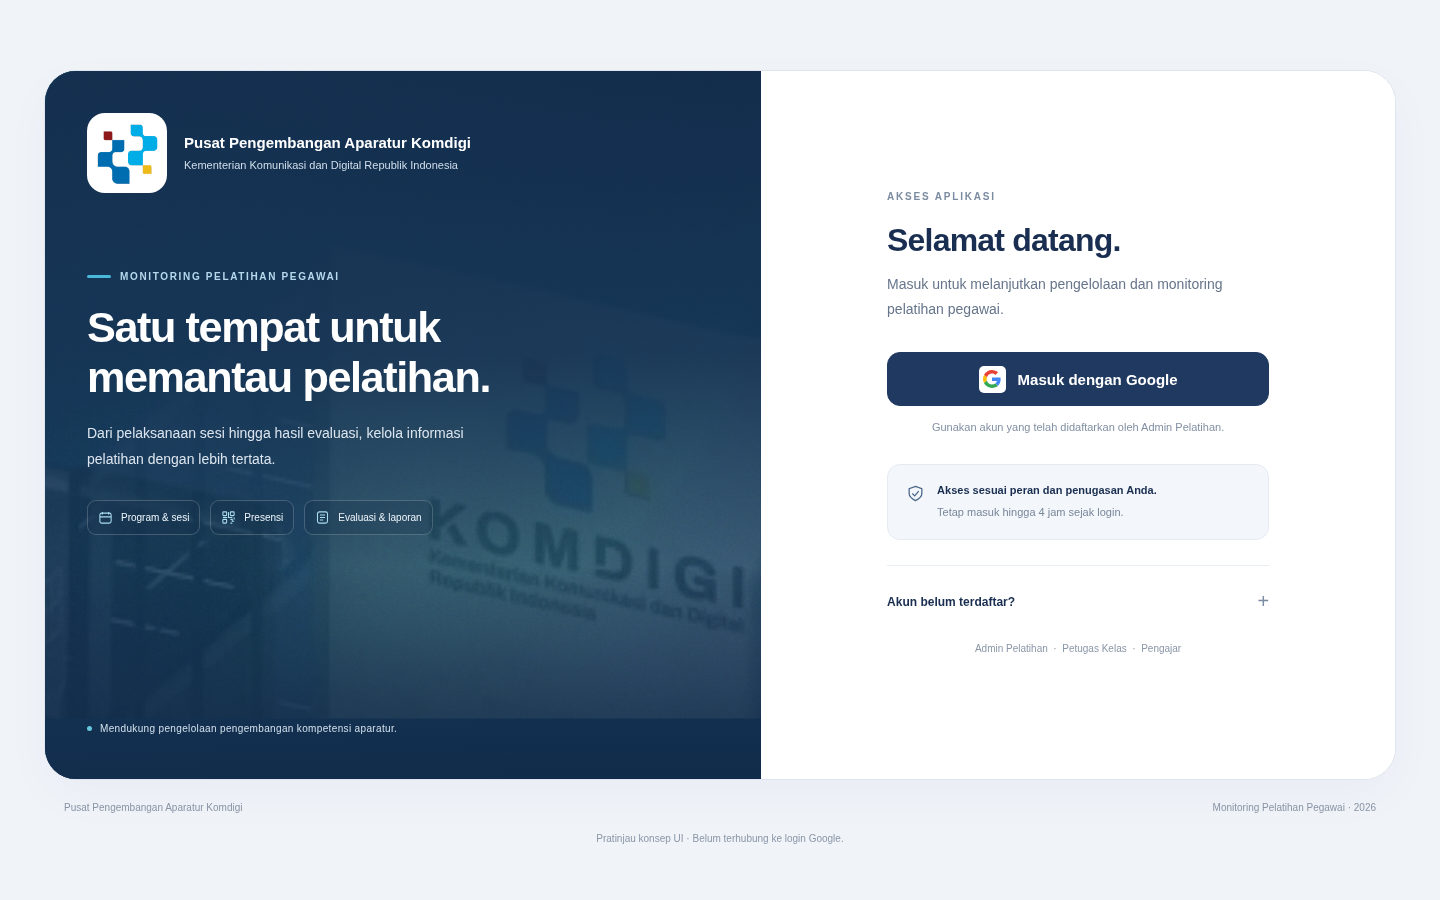
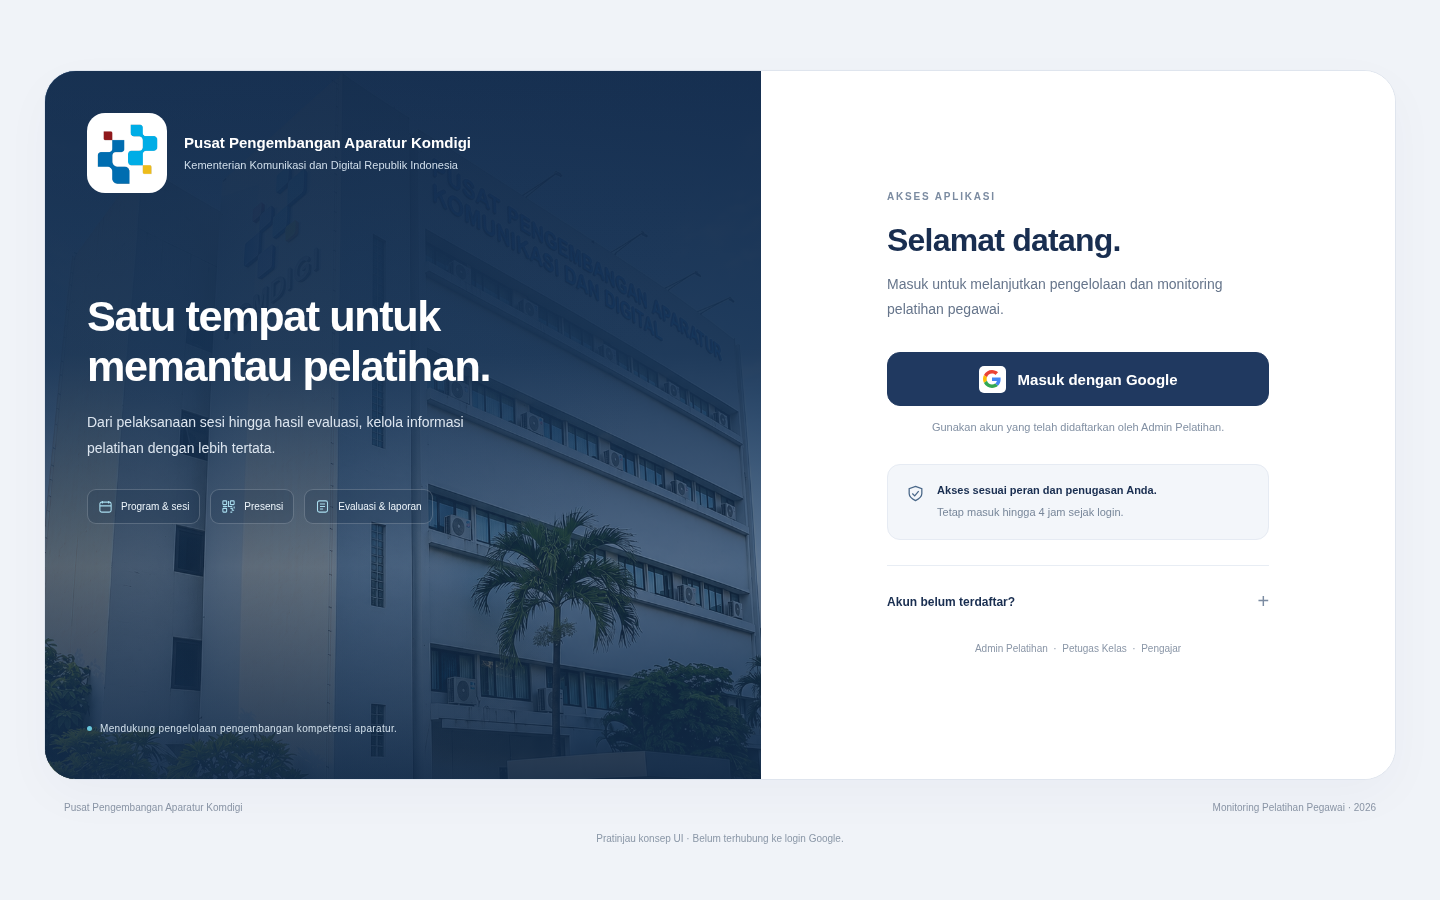
design: revise login building photo and remove left eyebrow

Changed region(s): [[0.0312, 0.3422, 0.5312, 0.84], [0.0625, 0.28, 0.2188, 0.3111]]

diff --git a/apps-script/absensi-dashboard/previews/konsep-login-awal/index.html b/apps-script/absensi-dashboard/previews/konsep-login-awal/index.html
@@ -9,11 +9,11 @@
 .scene{max-width:1480px;margin:0 auto;padding:38px 44px 22px;min-height:100svh;display:flex;flex-direction:column;justify-content:center}
 .shell{display:grid;grid-template-columns:1.13fr 1fr;gap:0;min-height:710px;border:1px solid #dfe5ee;border-radius:32px;overflow:hidden;background:#fff;box-shadow:0 16px 50px #192e5008}
 .hero{position:relative;isolation:isolate;overflow:hidden;background:#173354;color:white;display:flex;flex-direction:column;padding:42px 42px 32px;min-width:0}
-.hero-photo{position:absolute;z-index:-3;inset:0;width:100%;height:100%;object-fit:cover;object-position:50% 85%;opacity:.8}
+.hero-photo{position:absolute;z-index:-3;inset:0;width:100%;height:100%;object-fit:cover;object-position:50% 0%;opacity:.8}
 .hero::before{content:'';position:absolute;z-index:-2;inset:0;background:linear-gradient(180deg,#132b4bf5 0%,#173354ed 40%,#1733548a 70%,#112946e8 100%)}
 .hero::after{content:'';position:absolute;z-index:-1;inset:0;background:linear-gradient(110deg,#1733545c,transparent 75%)}
 .brand{display:flex;align-items:center;gap:17px;max-width:460px}.brand-logo{width:80px;height:80px;object-fit:contain;background:#fff;border-radius:18px;padding:6px;flex:none}.brand-text{font-size:15px;line-height:1.55;font-weight:600}.brand-text small{display:block;font-size:11px;font-weight:400;color:#d0deeb;line-height:1.5;margin-top:3px}
-.hero-body{margin-top:78px;max-width:490px}.eyebrow{display:flex;align-items:center;gap:9px;font-size:10px;font-weight:650;letter-spacing:1.65px;text-transform:uppercase;color:#b5d8ed}.eyebrow::before{content:'';width:24px;height:3px;background:#49b9db;border-radius:4px;flex:none}
+.hero-body{margin-top:78px;max-width:490px}
 .hero h1{font-size:clamp(32px,3vw,44px);line-height:1.18;letter-spacing:-1.4px;font-weight:650;margin:20px 0 18px}.hero-body>p{font-size:14px;line-height:1.8;max-width:405px;color:#dce5ef;margin:0}
 .features{display:flex;gap:10px;margin-top:28px;flex-wrap:wrap}.feature{display:inline-flex;align-items:center;gap:8px;min-height:35px;padding:8px 10px;border:1px solid #ffffff32;border-radius:9px;background:#16314a40;font-size:10px;color:#edf5fb;white-space:nowrap}.feature svg{width:15px;height:15px;flex:none;stroke:#a9ddef}
 .hero-caption{margin-top:auto;padding-top:64px;font-size:10px;letter-spacing:.35px;line-height:1.6;color:#d2e0eb;display:flex;align-items:center;gap:8px}.hero-caption::before{content:'';width:5px;height:5px;background:#67c6dc;border-radius:50%;flex:none}
@@ -24,7 +24,7 @@
 .footer{display:flex;justify-content:space-between;gap:16px;align-items:center;max-width:1312px;width:100%;margin:20px auto 0;color:#8994a5;font-size:10px;line-height:1.6}.footer span:last-child{white-space:nowrap}.preview-note{font-size:10px;text-align:center;color:#8a97a7;line-height:1.6;margin:15px 0 0}.review{max-width:1312px;margin:0 auto 24px;padding:0 44px;color:#66758b;font-size:12px}.review summary{cursor:pointer;text-align:center}.review-controls{display:flex;justify-content:center;gap:10px;flex-wrap:wrap;padding-top:16px}.review-controls button{border:1px solid #d6dfec;background:white;color:#203960;border-radius:9px;padding:9px 12px;min-height:40px}.review-controls button[aria-pressed=true]{background:#203960;color:#fff}
 @media(min-width:1700px){.scene{max-width:1560px}.shell{min-height:790px}.hero-body{margin-top:96px}}
 @media(max-width:1100px){.scene{padding:28px}.hero{padding:32px}.access{padding:36px 30px}.hero h1{font-size:35px}.hero-body{margin-top:65px}.brand-text{font-size:13px}.brand-logo{width:68px;height:68px}.brand-text small{font-size:10px}}
-@media(max-width:780px){.scene{padding:18px;justify-content:flex-start}.shell{grid-template-columns:1fr;border-radius:24px;min-height:0}.hero{padding:26px 24px 28px;min-height:315px}.hero-photo{object-position:50% 79%}.hero::before{background:linear-gradient(100deg,#132b4bf2,#173354d6)}.brand{gap:13px}.brand-logo{width:61px;height:61px;border-radius:13px;padding:4px}.brand-text{font-size:12px;max-width:245px}.brand-text small{font-size:9px}.hero-body{margin-top:33px}.eyebrow{font-size:8px;letter-spacing:1.15px}.hero h1{font-size:30px;line-height:1.2;letter-spacing:-.7px;margin:14px 0 12px}.hero-body>p{font-size:12px;line-height:1.7;max-width:350px}.features{display:none}.hero-caption{display:none}.access{padding:30px 25px 28px}.login{max-width:none}.login-eyebrow{font-size:9px;margin-bottom:13px}.login h2{font-size:27px}.intro{font-size:12px}.login-actions{margin-top:22px}.google-button{min-height:52px;font-size:13px}.caption{font-size:10px}.session-note{margin-top:20px;padding:14px}.access-help{margin-top:20px;padding-top:17px}.roles{margin-top:19px}.footer{flex-direction:column;gap:5px;text-align:center;margin-top:16px;font-size:9px}.preview-note{margin:14px 0 8px;font-size:9px}.review{padding:0 20px;font-size:11px}}
+@media(max-width:780px){.scene{padding:18px;justify-content:flex-start}.shell{grid-template-columns:1fr;border-radius:24px;min-height:0}.hero{padding:26px 24px 28px;min-height:315px}.hero-photo{object-position:50% 15%}.hero::before{background:linear-gradient(100deg,#132b4bf2,#173354d6)}.brand{gap:13px}.brand-logo{width:61px;height:61px;border-radius:13px;padding:4px}.brand-text{font-size:12px;max-width:245px}.brand-text small{font-size:9px}.hero-body{margin-top:33px}.hero h1{font-size:30px;line-height:1.2;letter-spacing:-.7px;margin:14px 0 12px}.hero-body>p{font-size:12px;line-height:1.7;max-width:350px}.features{display:none}.hero-caption{display:none}.access{padding:30px 25px 28px}.login{max-width:none}.login-eyebrow{font-size:9px;margin-bottom:13px}.login h2{font-size:27px}.intro{font-size:12px}.login-actions{margin-top:22px}.google-button{min-height:52px;font-size:13px}.caption{font-size:10px}.session-note{margin-top:20px;padding:14px}.access-help{margin-top:20px;padding-top:17px}.roles{margin-top:19px}.footer{flex-direction:column;gap:5px;text-align:center;margin-top:16px;font-size:9px}.preview-note{margin:14px 0 8px;font-size:9px}.review{padding:0 20px;font-size:11px}}
 @media(prefers-reduced-motion:reduce){*{animation:none!important;transition:none!important}}
 </style>
 </head>
@@ -32,9 +32,9 @@
 <main class="scene">
  <div class="shell">
   <section class="hero" aria-labelledby="welcome-heading">
-   <img class="hero-photo" src="gedung-komdigi.jpg" alt="" decoding="async">
+   <img class="hero-photo" src="gedung-komdigi-baru.png" alt="" decoding="async">
    <div class="brand"><img class="brand-logo" src="logo-komdigi.png" alt="Logo Komdigi" width="80" height="80"><div class="brand-text">Pusat Pengembangan Aparatur Komdigi<small>Kementerian Komunikasi dan Digital Republik Indonesia</small></div></div>
-   <div class="hero-body"><div class="eyebrow">Monitoring Pelatihan Pegawai</div><h1 id="welcome-heading">Satu tempat untuk<br>memantau pelatihan.</h1><p>Dari pelaksanaan sesi hingga hasil evaluasi, kelola informasi pelatihan dengan lebih tertata.</p>
+   <div class="hero-body"><h1 id="welcome-heading">Satu tempat untuk<br>memantau pelatihan.</h1><p>Dari pelaksanaan sesi hingga hasil evaluasi, kelola informasi pelatihan dengan lebih tertata.</p>
     <div class="features" aria-label="Cakupan aplikasi">
      <span class="feature"><svg viewBox="0 0 24 24" fill="none" stroke-width="1.7" aria-hidden="true"><rect x="3" y="5" width="18" height="16" rx="3"/><path d="M7 3v4m10-4v4M3 11h18"/></svg>Program &amp; sesi</span>
      <span class="feature"><svg viewBox="0 0 24 24" fill="none" stroke-width="1.7" aria-hidden="true"><rect x="3" y="3" width="6" height="6" rx="1"/><rect x="15" y="3" width="6" height="6" rx="1"/><rect x="3" y="15" width="6" height="6" rx="1"/><path d="M15 15h3v3h3m-6 3h3m3-9v3M3 12h7m2-9v9h6"/></svg>Presensi</span>

diff --git a/PROJECT_CONTEXT.md b/PROJECT_CONTEXT.md
@@ -2,8 +2,11 @@
 
 Status updated: 9 November 2026, Asia/Jakarta. The accepted sidebar/navigation baseline originated on 24 October; the latest deletion feature and transaction fix were subsequently deployed, tested and accepted by the user on 27 October. Continue from this cumulative source, superseding the earlier flat-dashboard UI package.
 
+## Revisi foto konsep login — 9 November 2026
+User liked the left panel but requested replacing the building photo with a newly supplied inline photo, focusing on the building, and removing only the small "Monitoring Pelatihan Pegawai" eyebrow above the main headline. Updated the isolated login prototype/screenshots on **design/konsep-login-awal**; right login panel/logo/heading/auth remain unchanged, app name still in footer. The inline photo had no local file/Sediment pointer, so the building-focused preview asset was made through image generation from the latest user reference; it is a derived crop/reframe, not a pixel-identical original extraction. Provenance/hash recorded in previews/konsep-login-awal/ASSETS.json and README. Original file should be used if supplied for later production integration; do not silently treat the generated derivative as the original photo. Existing report cover and all 19 production sources remain unchanged. Local 1440/390/320 px layout/state checks pass; design/integration acceptance still pending.
+
 ## Konsep halaman awal login — 9 November 2026
-User asked to design the initial login concept/UI first ("kita rancang dulu konsepnya serta UI nya"), not to integrate new production login code. Branch **design/konsep-login-awal** continues **a39f828**; isolated [HTML/desktop/mobile concept](apps-script/absensi-dashboard/previews/konsep-login-awal/README.md) is under previews/konsep-login-awal/. Split navy identity/building panel and white Google-login panel, responsive vertical mobile, registered-account help, per-role access note and absolute four-hour session explanation. Uses exact user-provided cover/logo assets from report bundle, system fonts and local-only assets. Prototype Google button simulates a checking state; no Google/RPC/account/deployment work, no role selector or public registration. Real implementation must keep live server checks and auto-continue an existing valid session; no extra mandatory welcome/login click. Current production source hashes remain unchanged. Local Chromium at 1440/390/320 px checked layout/help/visual states/no external calls; design acceptance and implementation still pending. This new request does not confirm deployment acceptance of prior spacing/loading packages; manual book/video remain pending.
+User asked to design the initial login concept/UI first ("kita rancang dulu konsepnya serta UI nya"), not to integrate new production login code. Branch **design/konsep-login-awal** continues **a39f828**; isolated [HTML/desktop/mobile concept](apps-script/absensi-dashboard/previews/konsep-login-awal/README.md) is under previews/konsep-login-awal/. Split navy identity/building panel and white Google-login panel, responsive vertical mobile, registered-account help, per-role access note and absolute four-hour session explanation. The initial version used exact user-provided cover/logo assets from the report bundle; the revision above replaces only the preview building photo. System fonts and local-only assets remain. Prototype Google button simulates a checking state; no Google/RPC/account/deployment work, no role selector or public registration. Real implementation must keep live server checks and auto-continue an existing valid session; no extra mandatory welcome/login click. Current production source hashes remain unchanged. Local Chromium at 1440/390/320 px checked layout/help/visual states/no external calls; design acceptance and implementation still pending. This new request does not confirm deployment acceptance of prior spacing/loading packages; manual book/video remain pending.
 
 ## Implementasi hasil audit UI — 4 November 2026
 The user explicitly authorized code after the audit ("mari kita buatkan kode perbaikannya"), superseding the earlier audit-only restriction below. Branch **ui/jarak-tutup-modal-peserta** continues **61ebc38** / performance source **96671c9**. Replace **Index.html, Pengelolaan.html, Peserta.html, Profil.html, ManajemenAkses.html, Akses.gs and Evaluasi.gs** together. All audited dialog occurrences now have one accessible 44×44 X with 20px SVG; existing header IDs/listeners retained, new headers delegate to prior cancel controls and mirror disabled state. Long static-modal headers stay visible on scroll; evaluation table scrolling/dirty confirmation retained. Related action/card gaps 12px, including previously touching Pengelolaan cards and mobile access actions. Peserta Program field precedes Jenjang; no Program disables Jenjang, program changes clear old level, single-level auto-selection and import/role constraints preserved. Shared HTML style blocks support native-owner pages too; bridge styles cover dynamic dialogs and Beranda legacy review. No backend/RPC/scoring/schema/sidebar/login change or new source files. 431 backend tests and mocked Chromium 66 modal occurrences/geometry/cancel/busy/no-write/deletion-X/long-title/scroll plus app/role/level/evaluation/manual/final-grade regressions pass. User Google deployment acceptance pending. If performance package not installed, also replace unchanged Code.gs from this branch. [Install and verification](apps-script/absensi-dashboard/docs/UI_JARAK_TUTUP_MODAL_PESERTA.md). No Google data/deployment/main changes; manual book/video and measured loading acceptance remain pending.

diff --git a/apps-script/absensi-dashboard/previews/konsep-login-awal/README.md b/apps-script/absensi-dashboard/previews/konsep-login-awal/README.md
@@ -6,6 +6,10 @@
 
 [Pratinjau ponsel](login-mobile.png) · [Prototipe HTML lokal](index.html)
 
+## Revisi panel kiri
+
+Pengguna menyukai panel kiri dan meminta dua penyesuaian: memakai foto gedung yang baru dikirim dengan fokus pada bangunan, serta menghapus tulisan kecil “Monitoring Pelatihan Pegawai” di atas judul. Kedua perubahan diterapkan pada prototipe dan tangkapan layar desktop/ponsel. Kartu login kanan, logo, judul utama dan alur pratinjau dipertahankan. Nama aplikasi pada footer tidak ikut dihapus.
+
 ## Arah desain
 
 Satu halaman sambutan sekaligus login, dengan tampilan formal dan hangat mengikuti navy/putih dashboard. Desktop memakai dua panel dalam bingkai membulat: kiri memperkenalkan instansi dan fungsi aplikasi; kanan memberi satu tindakan utama **Masuk dengan Google**. Foto gedung diberi lapisan navy melalui CSS agar teks tetap terbaca. Pada ponsel panel disusun vertikal; judul/pengantar dipersingkat secara visual dan tombol login tetap mudah ditemukan.
@@ -14,7 +18,7 @@ Isi panel pengenalan:
 
 - Logo dan nama Pusat Pengembangan Aparatur Komdigi.
 - Identitas Kementerian Komunikasi dan Digital Republik Indonesia.
-- Nama aplikasi **Monitoring Pelatihan Pegawai**.
+- Nama aplikasi tetap pada footer; label kecil di atas judul sudah dihapus sesuai revisi pengguna.
 - Judul **“Satu tempat untuk memantau pelatihan.”**
 - Gambaran singkat Program & Sesi, Presensi, serta Evaluasi & Laporan. Label fitur adalah informasi, bukan tautan yang memberi akses sebelum login.
 
@@ -41,12 +45,11 @@ Pratinjau menyediakan lima keadaan visual: awal login, memeriksa sesi, sesi masi
 
 ## Aset dan ketergantungan
 
-Logo dan foto gedung diekstrak tanpa perubahan piksel dari `asetLaporan_()` pada LaporanTampilan.gs, berasal dari DOCX yang diberikan pengguna. SHA-256 sesuai `../laporan-template/ASSETS.json`:
[1 lines of base64/hex data omitted]
 
[2 lines of base64/hex data omitted]
+Foto panel kiri sekarang memakai referensi foto gedung baru dari pesan pengguna, menggantikan gambar cover laporan. Karena foto inline tersebut tidak tersedia sebagai berkas lokal, aset `gedung-komdigi-baru.png` pada prototipe merupakan hasil pembingkaian ulang berbantuan image generation, **bukan salinan piksel identik dari foto asli**. Referensinya tetap gedung yang dikirim pengguna; permintaan pemrosesan membatasi pada fokus bangunan tanpa perubahan desain bangunan. Metadata dan hash ada di [ASSETS.json](ASSETS.json). Bila memakai foto asli untuk integrasi produksi, gunakan berkas asli yang diberikan pengguna; aset ilustrasi pratinjau ini tidak otomatis menjadi keputusan produksi.
 
-Gambar asli tidak diedit/digenerasikan ulang; pemotongan/warna panel hanya melalui tata letak CSS. Seluruh aset prototipe lokal, font memakai sistem yang sejalan dengan dashboard. Jika dipilih untuk produksi, pemuatan foto harus tidak menahan pemeriksaan sesi atau tombol login; foto boleh diganti/dikurangi setelah peninjauan desain dan ukuran aset. Jangan menganggap pratinjau ini sudah mengatasi waktu pemuatan deployment.
+Tata letak menampilkan foto dengan crop CSS di bagian atas/fasad; lapisan navy menjaga keterbacaan. Semua aset lokal, font memakai sistem seperti dashboard, tidak ada layanan gambar/font eksternal. Ukuran gambar pratinjau belum merupakan optimasi produksi; foto tidak boleh menahan pemeriksaan sesi atau tombol login jika nanti diterapkan. Cover laporan produksi tidak diganti.
 
 ## Melihat prototipe secara lokal
 

diff --git a/CHANGELOG.md b/CHANGELOG.md
@@ -1,5 +1,9 @@
 # Changelog
 
+## 2026-11-09 — revise login concept building photo and remove eyebrow
+- Replaced the isolated prototype's old cover photo with a building-focused derivative made from the newly supplied inline photograph, and removed the small application-name label above the left headline. Right login panel, logo, production report cover and authentication unchanged.
+- Explicitly document image-generation provenance: preview crop/reframe is not pixel-identical to the original inline upload. Updated desktop/mobile screenshots and checked layouts/states at 1440/390/320 px. No production source, data, deployment or main change.
+
 ## 2026-11-09 — initial login concept and isolated responsive preview
 - User requested concept/UI design before implementation. Added a separate navy/white welcome + Google-login preview with existing official logo/building artwork, responsive desktop/mobile views, account-help copy and illustrative checking/remembered/unregistered/error states.
 - Preserves the proposed continuation of valid four-hour sessions and existing role/Google verification; no public signup, role selector, real OAuth or operational source changes. Local Chromium layout/state checks passed at 1440/390/320 px. See previews/konsep-login-awal/README.md. Integration and user design acceptance pending; no live data/deployment/main changes.
